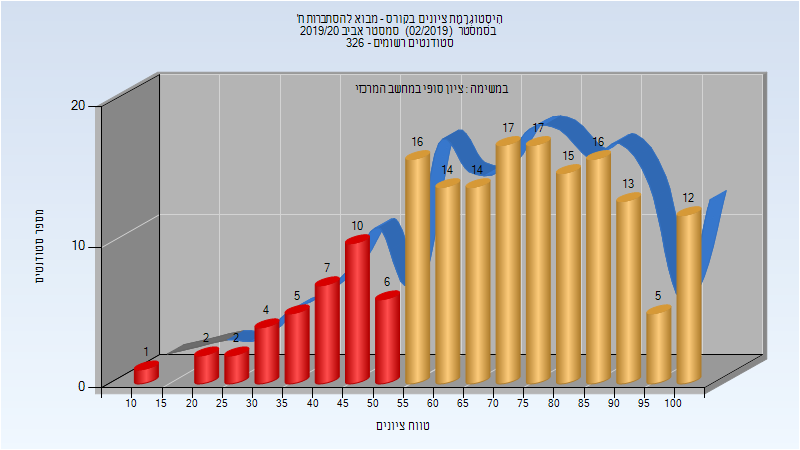
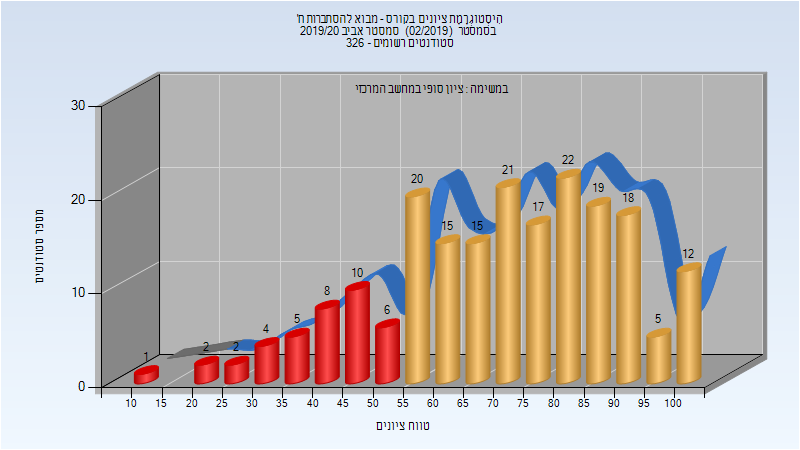
Deploy michael-maltsev/technion-histograms to github.com/michael-maltsev/technion-histograms.git:gh-pages

diff --git a/104034/index.html b/104034/index.html
@@ -2903,13 +2903,13 @@
 </thead>
 <tbody>
 <tr>
-<td>176</td>
-<td>139/37</td>
-<td>79</td>
+<td>202</td>
+<td>164/38</td>
+<td>81</td>
 <td>14</td>
 <td>100</td>
-<td>69.477</td>
-<td>72</td>
+<td>70.312</td>
+<td>72.5</td>
 </tr>
 </tbody>
 </table>

diff --git a/104034/README.md b/104034/README.md
@@ -916,5 +916,5 @@
 
 | סטודנטים | עברו/נכשלו | אחוז עוברים | ציון מינימלי | ציון מקסימלי | ממוצע | חציון |
 | ---- | ---- | ---- | ---- | ---- | ---- | ---- |
-| 176 | 139/37 | 79 | 14 | 100 | 69.477 | 72 |
+| 202 | 164/38 | 81 | 14 | 100 | 70.312 | 72.5 |
 
